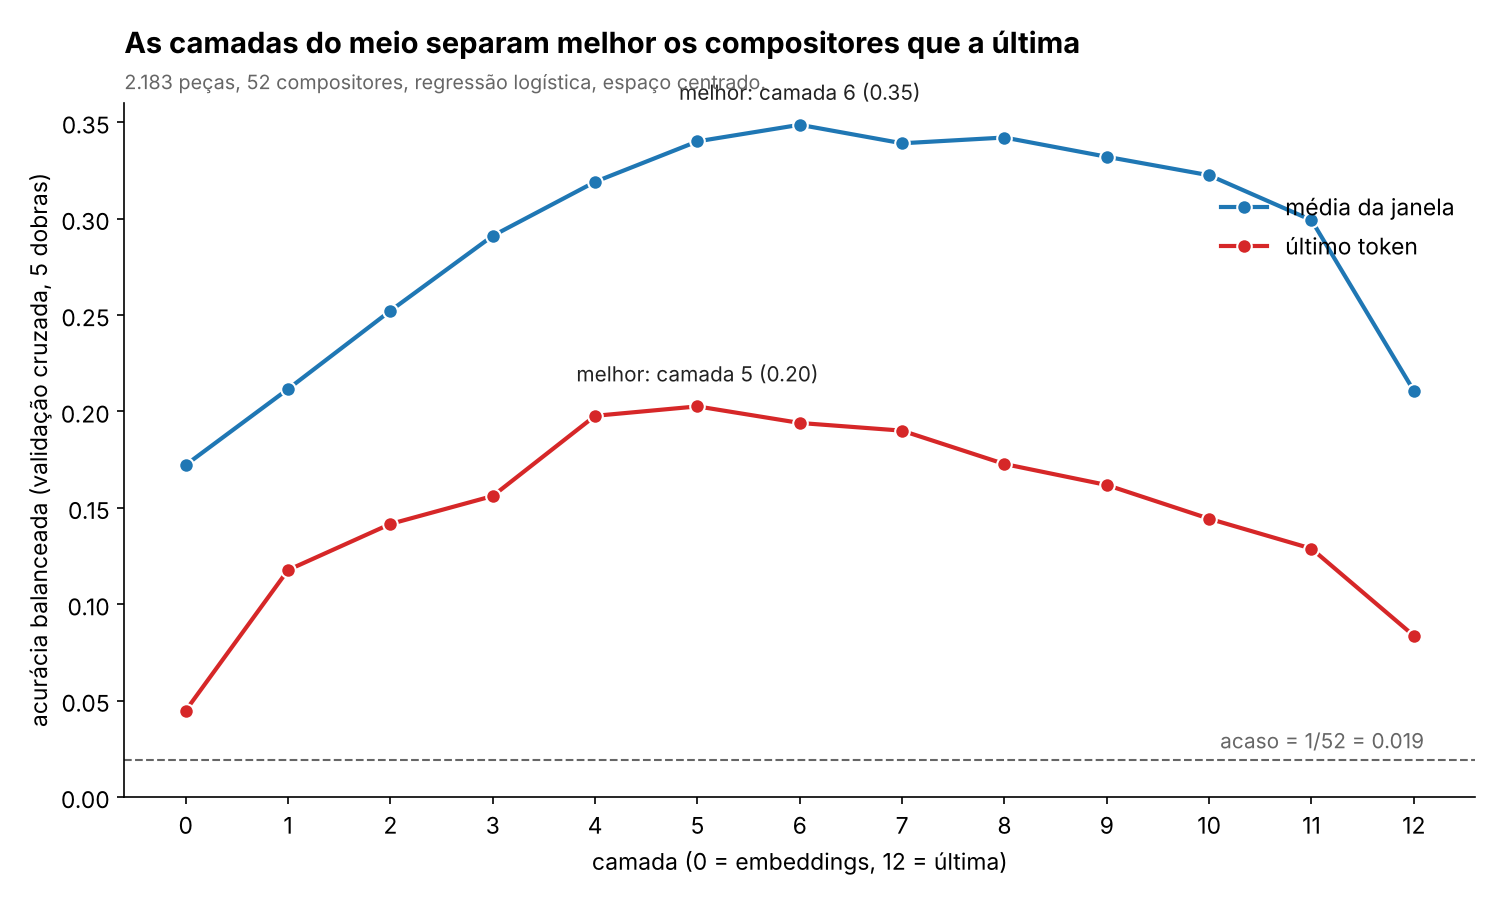
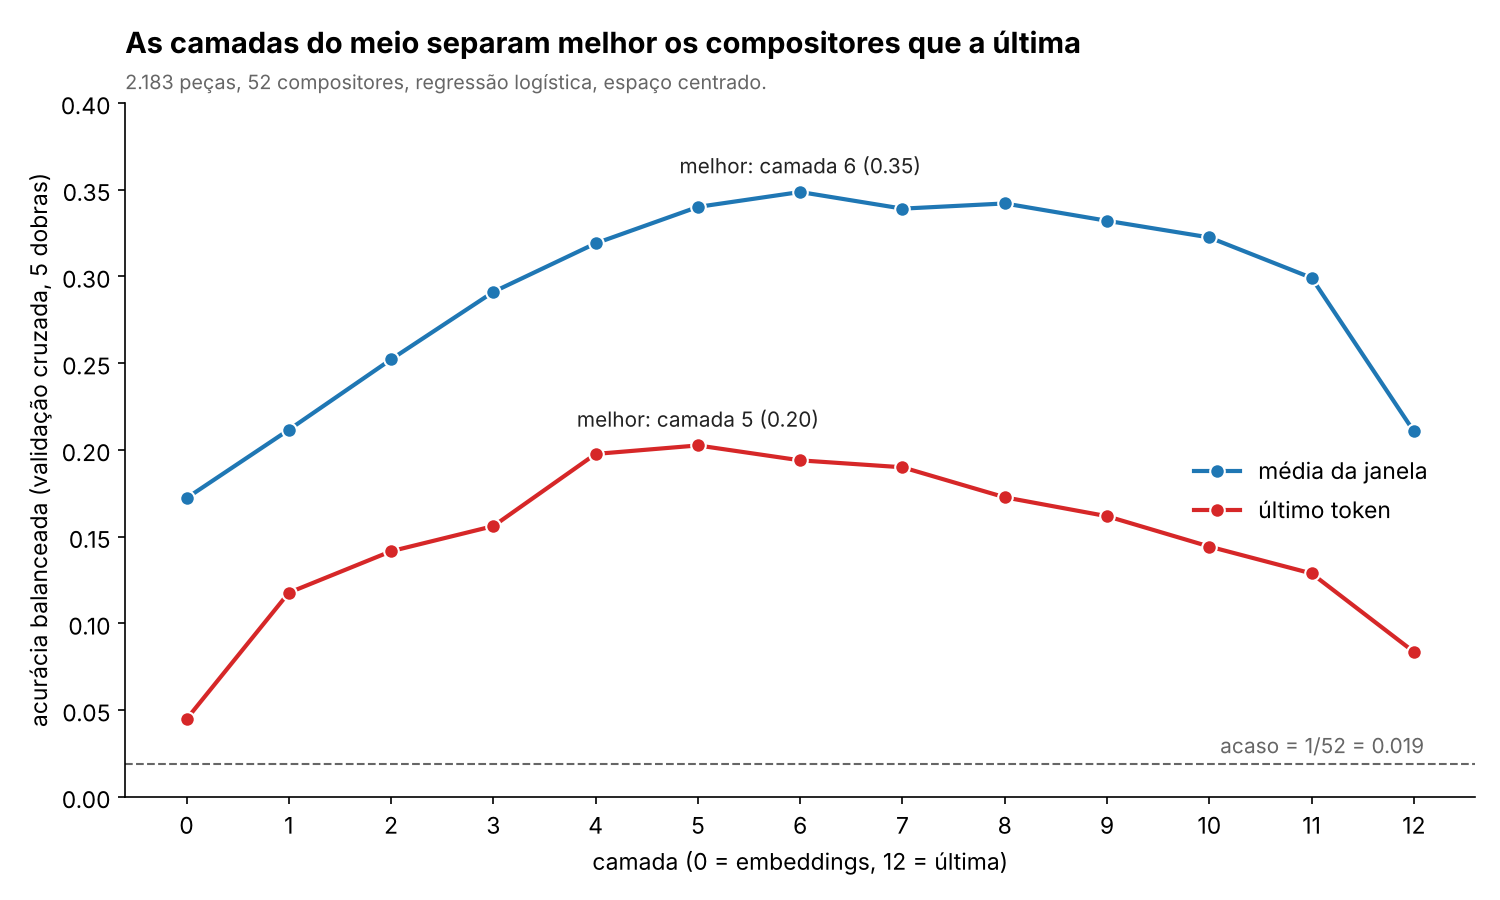
B7: roteiro da apresentação e ajustes de figuras
Claude-Session: https://claude.ai/code/session_01Xf7oPKv58X1QvXpsH5kXF3

diff --git a/analysis/figuras_apresentacao.py b/analysis/figuras_apresentacao.py
@@ -110,7 +110,7 @@ def steering():
         col = "#1f77b4" if c in ("centrado", "caminho_t1") else "#888888"
         ax.errorbar(j, g.loc[c, "mean"], yerr=g.loc[c, "se"], fmt="o", ms=10, color=col, ecolor=col, capsize=5, lw=2,
                     markeredgecolor="white", zorder=3)
-        ax.text(j + 0.12, g.loc[c, "mean"], f"{g.loc[c, 'mean']:.2f}", va="center", fontsize=11, color=INK)
+        ax.text(j + 0.12, g.loc[c, "mean"], f"{g.loc[c, 'mean']:.2f}".replace(".", ","), va="center", fontsize=11, color=INK)
     ax.axhline(0, color=MUTED, lw=1, ls="--"); ax.axhline(1, color=MUTED, lw=1, ls="--")
     ax.text(len(order) - 0.45, 0.015, "origem (centróide de Bach)", ha="right", va="bottom", fontsize=10, color=MUTED)
     ax.text(len(order) - 0.45, 0.985, "alvo (centróide de Chopin)", ha="right", va="top", fontsize=10, color=MUTED)
@@ -118,10 +118,10 @@ def steering():
     ax.set_ylim(-0.1, 1.1); ax.set_xlim(-0.5, len(order) - 0.4)
     ax.set_ylabel("progresso na direção Bach → Chopin")
     n = int(g["count"].iloc[0])
-    ax.set_title("Somar o vetor de Chopin leva a música para o lado de Chopin; um vetor aleatório não", fontsize=14,
-                 loc="left", fontweight="bold", pad=24)
-    ax.text(0, 1.02, f"Média ± erro padrão, n = {n} continuações por condição (7 sementes de Bach × 2), α = 1, camada 6. "
-            "Progresso relido sem steering.", transform=ax.transAxes, fontsize=9.5, color=MUTED)
+    ax.set_title("Somar o vetor de Chopin empurra a música gerada na direção de Chopin,\nsem chegar lá", fontsize=14,
+                 loc="left", fontweight="bold", pad=44)
+    ax.text(0, 1.015, f"Média ± erro padrão, n = {n} continuações por condição (7 sementes de Bach × 2), α = 1, camada 6.\n"
+            "Progresso relido sem steering. A distância ao centróide de Chopin continua alta.", transform=ax.transAxes, fontsize=9.5, color=MUTED, va="bottom")
     fig.tight_layout()
     fig.savefig(HERE / "F7_deslocamento/figs/steering.png", dpi=150)
     plt.close(fig)
@@ -153,11 +153,11 @@ def steering_alfa():
     ax.set_xticks([0, 0.25, 0.5, 1, 1.5]); ax.set_xticklabels(["0\n(sem steering)", "0,25", "0,5", "1", "1,5"])
     ax.set_xlim(-0.2, 1.7); ax.set_ylim(-0.1, 1.1)
     ax.set_xlabel("intensidade α do vetor somado"); ax.set_ylabel("progresso na direção Bach → Chopin")
-    ax.legend(frameon=False, loc="lower right", bbox_to_anchor=(1, 0.12))
+    ax.legend(frameon=False, loc="lower right", bbox_to_anchor=(1, 0.17))
     ax.set_title("Quanto mais forte o vetor de Chopin, mais a música avança; o aleatório não", fontsize=14,
-                 loc="left", fontweight="bold", pad=24)
-    ax.text(0, 1.02, "Média ± erro padrão, 7 sementes de Bach × 1 amostra por α, camada 6, continuações relidas sem "
-            "steering. Sem quebra até α = 1,5.", transform=ax.transAxes, fontsize=9.5, color=MUTED)
+                 loc="left", fontweight="bold", pad=34)
+    ax.text(0, 1.015, "Média ± erro padrão, 7 sementes de Bach × 1 amostra por α, camada 6, continuações relidas sem steering.\n"
+            "Repetição de trigramas não aumenta até α = 1,5.", transform=ax.transAxes, fontsize=9.5, color=MUTED, va="bottom")
     fig.tight_layout()
     fig.savefig(HERE / "F7_deslocamento/figs/steering_alfa.png", dpi=150)
     plt.close(fig)
@@ -199,13 +199,13 @@ def camadas():
         s = r[r.pooling == pool].sort_values("layer")
         ax.plot(s.layer, s.bal_acc, "o-", color=col, lw=2, ms=7, markeredgecolor="white", label=lab)
         k = s.loc[s.bal_acc.idxmax()]
-        ax.annotate(f"melhor: camada {int(k.layer)} ({k.bal_acc:.2f})", (k.layer, k.bal_acc), xytext=(0, 12),
+        ax.annotate(f"melhor: camada {int(k.layer)} ({k.bal_acc:.2f})", (k.layer, k.bal_acc), xytext=(0, 9),
                     textcoords="offset points", ha="center", fontsize=10, color=INK)
     ax.axhline(m["chance"], color=MUTED, ls="--", lw=1)
     ax.text(12.1, m["chance"] + 0.006, f"acaso = 1/52 = {m['chance']:.3f}", ha="right", fontsize=10, color=MUTED)
     ax.set_xticks(range(13)); ax.set_xlabel("camada (0 = embeddings, 12 = última)")
     ax.set_ylabel("acurácia balanceada (validação cruzada, 5 dobras)")
-    ax.set_ylim(0, 0.36); ax.legend(frameon=False, loc="upper right", bbox_to_anchor=(1, 0.9))
+    ax.set_ylim(0, 0.40); ax.legend(frameon=False, loc="upper right", bbox_to_anchor=(0.98, 0.52))
     ax.set_title("As camadas do meio separam melhor os compositores que a última", fontsize=14, loc="left",
                  fontweight="bold", pad=24)
     ax.text(0, 1.02, "2.183 peças, 52 compositores, regressão logística, espaço centrado.", transform=ax.transAxes,

diff --git a/APRESENTACAO.md b/APRESENTACAO.md
@@ -1,0 +1,115 @@
+# Roteiro da apresentação (12 slides, cerca de 12 minutos)
+
+Artes e Ciência (IMPA Tech). Lucas Barbosa, Thiago Vinicius e Tomaz L. Cavalcante.
+Público: colegas e professor de arte e ciência. Pouca matemática; foco na ideia e nas imagens.
+Todos os números vêm de `RESULTADOS.md` e `analysis/F6_controles/VALIDADE.md`. Não foi encontrada carta de intenção do grupo no repositório.
+Tempo: cerca de 1 minuto por slide (slides 1 e 12 mais curtos; 4, 5 e 7 podem passar de 1 minuto).
+
+---
+
+## Slide 1. Estilo é o que nos faz reconhecer um compositor, mas o que exatamente reconhecemos?
+
+- **Visual:** texto. Uma frase de abertura sobre Meyer (estilo em níveis: dialeto da época, idioma do compositor, escolhas dentro da obra) e a pergunta "um modelo de IA enxerga isso?". Opcional: o título do ensaio.
+- **O número que importa:** nenhum.
+- **Fala:** Quando ouvimos uma peça e pensamos "isso parece Chopin", estamos reconhecendo estilo. Leonard Meyer descreve o estilo em níveis: o dialeto de uma época, o idioma de um compositor e as escolhas dentro de cada obra. Nossa pergunta é simples: um modelo que só aprendeu a prever música organiza os compositores de modo parecido? Não julgamos se a música gerada é boa; olhamos como o modelo arruma o mundo por dentro.
+- **Cuidado:** Meyer aparece como ideia geral. Não atribuir a ele afirmações específicas nem citar páginas (RESULTADOS, "Leitura à luz de Meyer").
+
+## Slide 2. Pedimos a um modelo que prevê música a "impressão digital" de 52 compositores
+
+- **Visual:** diagrama simples. Três caixas em sequência: (1) acervo: peças de piano do GiantMIDI; (2) modelo (Anticipatory Music Transformer, treinado no Lakh MIDI) lê cada peça e devolve uma lista de números; (3) média por compositor = "impressão digital". Ao lado, o texto "52 compositores, 2.183 peças".
+- **O número que importa:** 2.183 peças, 52 compositores.
+- **Fala:** Usamos um modelo que aprendeu a prever o que vem a seguir na música. Mostramos a ele 2.183 peças de piano de 52 compositores e guardamos o que ele "pensa" ao ler cada trecho. A média disso por compositor é a impressão digital dele. A partir daí tudo é geometria: perto e longe, para o modelo.
+- **Cuidado:** o modelo foi treinado no Lakh MIDI, não em música clássica; "perto" e "surpreendente" são relativos a esse treino. As gravações do acervo vêm do YouTube, transcritas automaticamente, então o intérprete e o ruído da transcrição se misturam ao compositor (VALIDADE, "O que nenhum controle cobre").
+
+## Slide 3. As camadas do meio do modelo separam melhor os compositores do que a última
+
+- **Visual:** `analysis/F2_representacao/figs/camadas.png` (já corrigida; ver lista de ajustes). Opcional, pode ficar só como apoio ou slide de reserva.
+- **O número que importa:** acurácia de 0,35 na camada 6 contra 0,21 na última (acaso: 0,019, ou 1/52).
+- **Fala:** O modelo tem 12 camadas. Se pedimos a um classificador simples que adivinhe o compositor, a camada 6 acerta 35% das vezes em 52 opções, contra menos de 2% de um chute. A última camada, que está especializada em prever a próxima nota, acerta menos. Por isso usamos a camada 6 daqui em diante.
+- **Cuidado:** cada número é uma execução, sem intervalo de confiança; a camada foi escolhida e avaliada nos mesmos dados; 0,35 é bem acima do acaso, mas baixo em termos absolutos. Não dizer que a 6 é melhor que a 5, 7, 8 ou 9. Não dizer que o modelo "sabe menos" na última camada (interpretação não testada). Slide para cortar se faltar tempo.
+
+## Slide 4. O mapa acompanha, em parte, a cronologia, e os vizinhos quase sempre fazem sentido
+
+- **Visual:** `analysis/F3_geometria/figs/mapa_apresentacao.png`. Mostrar: Bach, Handel e Scarlatti embaixo à esquerda; ragtime em cima à esquerda; românticos e modernos à direita; a estrela do Tico-Tico ao lado do ragtime. Não usar `mapa_pca.png`.
+- **O número que importa:** correlação de 0,505 entre distância e diferença de época (nulo: p = 0,0002 em 5.000 permutações).
+- **Fala:** Cada ponto é um compositor; o tamanho mostra quantas peças ele tem. Compositores de épocas próximas ficam mais perto: Haydn fica ao lado de Mozart, Debussy ao lado de Cyril Scott. O Tico-Tico no Fubá, de Abreu, que colocamos como teste, caiu ao lado de Nazareth e do ragtime de Johnson e Scott. A relação com o tempo é real, mas moderada, não uma linha do tempo.
+- **Cuidado:** o mapa 2D distorce as distâncias (Spearman 0,76; PC1 explica 34% da variância). Vizinhos são ilustração (muitos pares mudam entre 1 e 2 janelas; Bach ↔ Handel não é mútuo, o vizinho de Bach é Scarlatti). Tico-Tico é uma peça só, ilustração; só os 3 primeiros vizinhos se mantêm (C. L. Johnson 0,417, J. Scott 0,444, Nazareth 0,488). Não afirmar que a semelhança é "por razão musical": pode ser harmonia, textura, gênero ou arquivo MIDI. Nacionalidade não mostra efeito detectável ao controlar a época (ρ parcial 0,039, p = 0,123), mas é ausência de evidência.
+
+## Slide 5. O compositor explica só 28% do que o modelo vê: o estilo é mais nuvem do que ponto
+
+- **Visual:** texto ou diagrama simples: um ponto grande por compositor sobreposto a "nuvens" que se cruzam (desenho esquemático). Alternativa de apoio: `analysis/F4_nuvens/figs/dispersao.png` (só depois de conferir os rótulos "Scott"; ver lista de ajustes).
+- **O número que importa:** R² = 0,275 (nulo: 0,0235); 65,3% das peças ficam mais perto do centróide de outro compositor.
+- **Fala:** Cada peça é um ponto, e cada compositor é uma nuvem de peças. O compositor explica cerca de 28% da variação entre peças, e dois terços das peças estão mais perto da média de outro compositor do que da própria. Mesmo assim, o modelo acerta o compositor muito acima do acaso. O estilo existe, mas é frouxo: as nuvens se sobrepõem. Uns são compactos (Victoria, ragtime), outros muito espalhados (Heller, Ravina).
+- **Cuidado:** o valor depende da representação (de 0,12 a 0,28), mas é sempre uma minoria bem acima do nulo. Os 72% restantes não são "variação de estilo da obra": incluem gênero, forma, tonalidade e ruído de transcrição. A compacidade de Victoria e dos ragtimes pode vir do tipo de arquivo MIDI (não testado). Não dizer que o compositor é "não identificável" (35% de acerto em 52 classes é muito acima do acaso). O compositor pesa mais que o gênero (R² 0,317 contra 0,164, em 1.053 peças), mas isso enfraquece (gênero por palavra do título é impreciso).
+
+## Slide 6. O espaço é um contínuo, com um único corte claro: o bloco pré-romântico
+
+- **Visual:** `analysis/F5_topologia/figs/dendrograma.png`. Apontar o bloco Bach, Handel, Scarlatti, Haydn, Mozart, Beethoven, Hummel se separando cedo, e o resto se juntando de forma gradual.
+- **O número que importa:** corte em 2 grupos estável (ARI 0,782 em 100 bootstraps); os cortes em 3, 4 e 5 são instáveis (0,436, 0,567 e 0,565).
+- **Fala:** Perguntamos se os compositores formam ilhas ou uma paisagem contínua. A resposta é quase só paisagem: não há lacuna maior do que a de uma nuvem sem grupos. A exceção é um bloco de sete compositores, de Bach a Beethoven, que se separa do resto e continua separado quando refazemos a conta. Os 45 demais, de Chopin ao ragtime, vão se juntando sem fronteira nítida.
+- **Cuidado:** chamar o bloco de "pré-romântico", não de "Barroco" (inclui Clássicos), e lembrar que há poucos barrocos (3) e clássicos (4). Com 52 pontos o teste tem pouca potência: não se conclui que "não existem grupos". Só foi medido o grau 0 (nada sobre ciclos ou Mapper). A robustez do bloco é parcial: nas camadas 12 e com o último token, ele vem com intrusos (Victoria, ragtime). Grupos mais finos (k ≥ 3): cai.
+
+## Slide 7. Somar o vetor de Chopin empurra a música na direção de Chopin, mas sem chegar lá
+
+- **Visual:** `analysis/F7_deslocamento/figs/steering.png` (título já ajustado). Se sobrar tempo, mostrar também `analysis/F7_deslocamento/figs/steering_alfa.png`.
+- **O número que importa:** progresso de 0,684 com o vetor de Chopin, contra 0,433 (vetor aleatório) e 0,392 (sem vetor); 7 de 7 sementes de Bach (p = 0,016).
+- **Fala:** Aqui invertemos o caminho: em vez de só olhar, mexemos. Pedimos ao modelo que continue um trecho de Bach somando o vetor médio de Chopin ao seu estado interno. Medimos o resultado numa régua em que 0 é o centro de Bach e 1 é o centro de Chopin: sem vetor, 0,39; com um vetor aleatório, 0,43; com o de Chopin, 0,68. Quanto mais forte o vetor, mais a música avança (de 0,38 a 0,75). Mas a música não vira Chopin: ela anda mais ou menos dois terços do caminho, num eixo.
+- **Cuidado:** a distância ao centróide de Chopin continua alta (0,930; de 1,178 sem vetor para 0,849 em α = 1,5). Um único par de compositores, 7 sementes, uma peça por semente, sem escuta. O eixo de medida é o mesmo que o vetor empurra. A média sobe com α, mas por semente só 4 de 7 trajetórias são monótonas. A única medida de degeneração (repetição de trigramas) não aumentou até α = 1,5 (1,5% a 4,1%), mas isso não garante música coerente. No caminho entre Bach e Chopin, o ponto médio (t = 0,5: 0,338) não passa do "sem vetor" (0,392): "Bach domina a mistura" não foi testado (um par só: enfraquece). Não mostrar a hipótese como "provada".
+
+## Slide 8. A surpresa do modelo cresce, em média, com a época, mas é a surpresa deste modelo, não a de um ouvinte
+
+- **Visual:** `analysis/F8_expectativa/figs/surpresa_por_compositor.png`. Apontar Victoria, os barrocos e o ragtime à esquerda da média; Scharwenka, Rzewski, Scriabin e Lack à direita.
+- **O número que importa:** correlação de 0,51 entre surpresa do compositor e ano de nascimento (IC95% 0,23 a 0,73; n = 52).
+- **Fala:** Meyer diz que estilo tem a ver com expectativa. Medimos o quanto o modelo se surpreende com cada compositor, a média da perda por nota. Victoria é o mais previsível para ele e Scharwenka o mais surpreendente. Em média, quanto mais recente o compositor, maior a surpresa: Barroco 2,25, Clássico 2,32, Romântico 2,54, Moderno 2,70. Ragtime e barrocos estão entre os mais previsíveis.
+- **Cuidado:** perda baixa não é "música simples" nem "esperada por Meyer": é previsibilidade para um modelo treinado no Lakh. A tendência pode refletir quanto cada repertório aparece no Lakh, ruído de transcrição, gênero e tamanho do acervo (Barroco 3 compositores, Clássico 4). Regularidade de tonalidade e ritmo não foi medida. Os mais surpreendentes não formam um bloco estilístico óbvio. Resultado da F8, que não está na VALIDADE.md (correlacional, robusto ao nulo por compositor, p = 0,008).
+
+## Slide 9. O que o modelo não vê: pedal, andamento, dinâmica e o intérprete
+
+- **Visual:** texto. Lista curta com ícones ou riscos: pedal, andamento, dinâmica, pianista e gravação, "treinado no Lakh, não em música clássica".
+- **O número que importa:** janela de no máximo 341 eventos e 100 s por trecho (sem pedal, sem token de andamento, só tempo, duração e nota).
+- **Fala:** O modelo só vê três coisas por nota: quando começa, quanto dura e qual é. Pedal e dinâmica não entram, e não há marcação de andamento. Boa parte do que chamamos de estilo ao ouvir está justamente aí. Além disso, as peças vêm de gravações transcritas automaticamente, então o pianista se mistura ao compositor, e o modelo foi treinado em outro repertório. O mapa é, portanto, o estilo como esse modelo o vê, não como o ouvimos.
+- **Cuidado:** a afirmação sobre pedal, dinâmica e andamento vem do código do AMT instalado (`anticipation/convert.py`, mensagens de controle ignoradas) e da extração (`F0_infra/extract_amt.py`), não de um teste. A "linha de base simbólica" (histograma de intervalos, duração, densidade) e o controle de andamento e dinâmica ainda faltam. A transposição pequena mexe pouco (0,02 a 0,03 contra 0,93 entre centróides), mas em 13 de 45 peças (29%) o centróide mais próximo muda: enfraquece; não concluir que o modelo ignora tonalidade. Metadados (nascimento, nacionalidade) curados à mão, não verificados fora.
+
+## Slide 10. À luz de Meyer: o estilo do modelo tem níveis, mas é gradual e frouxo
+
+- **Visual:** diagrama simples. Quatro degraus ou círculos concêntricos, cada um com a evidência em uma linha: dialeto da época (cronologia parcial, bloco pré-romântico), idioma do compositor (nuvem de 28%), obra (coerência interna, fraca), escolhas dentro de restrições (steering parcial). Mais uma seta lateral: "expectativa (surpresa do modelo)".
+- **O número que importa:** 52 de 52 compositores têm janelas da mesma peça mais próximas entre si do que de outras peças do próprio compositor (diferença 0,33; IC95% 0,29 a 0,36).
+- **Fala:** Lendo à luz de Meyer, o modelo parece ter um nível de dialeto de época, que muda de forma gradual, e um idioma de compositor reconhecível mas frouxo. Dentro de cada obra há coerência: os dois trechos de uma mesma peça se parecem mais entre si do que com outras peças do autor. E o vetor médio captura parte das restrições de um estilo, mas a música gerada ainda faz escolhas que ele não fixa. É uma leitura interpretativa, não uma prova de que o modelo "entende" estilo.
+- **Cuidado:** esta é a seção de interpretação do RESULTADOS; só ligamos aos níveis resultados que sobrevivem. A coesão da obra enfraquece: a medida mistura coerência da peça com a gravação e o arquivo MIDI (os mesmos nas duas janelas) e não mede expectativas dentro da obra. O vetor de Chopin move a música até 0,684 e a distância ao alvo continua 0,930. A expectativa é a do modelo, não a de um ouvinte.
+
+## Slide 11. O que a análise sustenta e o que ela não permite dizer
+
+- **Visual:** texto. Duas colunas: "Sobrevive" (época: 0,505; compositor explica minoria: 0,275; contínuo com bloco pré-romântico: ARI 0,782; steering parcial: 7 de 7) e "Não dizemos" (que o mapa é uma linha do tempo; que a música virou Chopin; que o modelo entende estilo como um ouvinte; que há grupos finos).
+- **O número que importa:** 7 de 7 sementes (p = 0,016, o menor valor possível com 7), e ARI 0,782 só para dois grupos.
+- **Fala:** Em resumo, três coisas se sustentam: a distância no modelo acompanha a época, de forma moderada; o compositor explica uma minoria, então estilo é mais nuvem do que ponto; e o espaço é contínuo, com um bloco de Bach a Beethoven. O deslocamento por vetor funciona de forma parcial, num único par. Outras coisas enfraquecem ou caem: vizinhos individuais, grupos finos, coesão por obra. Preferimos dizer isso com clareza a vender um resultado mais bonito.
+- **Cuidado:** usar a coluna "Enfraquece/Cai" da VALIDADE como reserva para perguntas: vizinhos (7, enfraquece), Tico-Tico (8, ilustração), coesão da obra (5, enfraquece), H4 gênero (4, enfraquece), transposição (12, enfraquece), H7 caminho (10, enfraquece). Os p-valores dependem de poucas sementes/permutações: p = 0,016 é o menor possível, não "muito forte".
+
+## Slide 12. Próximos passos: ouvir, controlar o que falta e testar outros pares
+
+- **Visual:** texto. Lista curta.
+- **O número que importa:** um único par (Bach → Chopin) e 7 sementes: a base do que ainda falta.
+- **Fala:** Falta ouvir: nenhuma das músicas geradas foi escutada por pessoas, e esse seria o teste mais honesto de estilo. Falta testar outros pares de compositores e outros eixos, controlar andamento, dinâmica e uma linha de base simples feita só de notas e durações, e verificar os metadados em fontes externas. E vale repetir com um modelo treinado em música clássica. Para quem faz arte, a pergunta continua aberta: o que, no estilo, é invisível para uma máquina que só vê notas e tempos?
+- **Cuidado:** ainda faltam intervalos e nulos para vários números (F2, transposição, vizinhos). Nada disso foi feito; apresentar como proposta, não como resultado.
+
+---
+
+## Figuras a ajustar antes de usar
+
+1. `analysis/F2_representacao/figs/camadas.png`: sobreposição do subtítulo com "melhor: camada 6" corrigida (eixo y até 0,40, legenda movida). Ainda: os rótulos "melhor: camada 6 (0.35)" usam ponto decimal; trocar por vírgula para ficar consistente.
+2. `analysis/F7_deslocamento/figs/steering.png`: título agora cauteloso ("...sem chegar lá") e subtítulo com a ressalva; vírgulas decimais corrigidas. Considerar remover as três condições de "caminho" (t = 0, 0,5, 1) no slide: carregam a leitura "Bach domina", que não foi testada.
+3. `analysis/F7_deslocamento/figs/steering_alfa.png`: subtítulo agora diz "Repetição de trigramas não aumenta até α = 1,5". Mostrar só se houver tempo; lembrar que só 4 de 7 trajetórias são monótonas.
+4. `analysis/F7_deslocamento/figs/steering_dois_sentidos.png`: não usada no roteiro; se for mostrada, não atribuir a assimetria ao vetor (mistura eixos, sementes, bases de centróides e n).
+5. `analysis/F4_nuvens/figs/dispersao.png`: só há um rótulo "Scott" (parece C. Scott); J. Scott (0,297) não aparece como barra própria. Conferir o `run.py` ou usar `dispersao.csv` antes de mostrar.
+6. `analysis/F3_geometria/figs/mapa_apresentacao.png`: regerada e conferida (52 compositores, PC1 34%, distorção 0,76). Para projetar, considerar fonte maior nos rótulos; o mapa tem muitos pontos para um slide. Opcional: destacar em cor os cinco ou seis nomes citados na fala.
+7. `analysis/F5_topologia/figs/dendrograma.png`: distingue J. Scott de C. Scott; os cortes finos (k ≥ 3) são instáveis, não comentar. Conferir legibilidade dos rótulos em tela.
+8. `analysis/F8_expectativa/figs/surpresa_por_compositor.png`: deixar explícito no título ou legenda que é a surpresa do modelo. Os IC variam bastante entre compositores.
+9. Slides sem figura (1, 2, 9, 10, 11, 12): produzir o diagrama simples do slide 2 e o diagrama dos níveis de Meyer do slide 10.
+10. Não usar `analysis/F3_geometria/figs/mapa_pca.png` (rótulos sobrepostos, dois "Scott" sem distinção).
+
+## Sugestão de divisão das falas
+
+- **Lucas Barbosa (slides 1, 2 e 3, cerca de 3 min):** pergunta, Meyer, como o modelo gera a "impressão digital" e a escolha da camada. Parte conceitual e de arte.
+- **Thiago Vinicius (slides 4, 5, 6 e 7, cerca de 5 min):** mapa, nuvem, contínuo e steering. Parte técnica e de modelo.
+- **Tomaz L. Cavalcante (slides 8, 9, 10, 11 e 12, cerca de 4 min):** surpresa, o que o modelo não vê, leitura à luz de Meyer, validade e próximos passos. Fecha o ensaio.
+
+Os três podem trocar a divisão; ela é só uma sugestão. Se sobrar tempo, o slide 3 vai para reserva, e o slide 7 ganha `steering_alfa.png`.

diff --git a/DIARIO.md b/DIARIO.md
@@ -95,7 +95,7 @@ Pedido do Tomaz: trabalho contínuo, com leitura, escrita e revisão delegadas a
 - [x] B4. Corrigir o que a revisão apontar.
 - [ ] B5. Refazer F2–F5 com 3 janelas, se a B1 terminar; registrar a estabilidade.
 - [x] B6. RESULTADOS.md: conclusões por hipótese, números finais e limitações.
-- [ ] B7. APRESENTACAO.md: roteiro slide a slide (mensagem, figura, número, fala), para o grupo montar o deck às 13h.
+- [x] B7. APRESENTACAO.md: roteiro slide a slide (mensagem, figura, número, fala), para o grupo montar o deck às 13h.
 - [ ] B8. Revisão final de RESULTADOS e APRESENTACAO por um subagente independente.
 
 ## 2026-11-08, ~08:00 — errata da revisão independente (B4)
